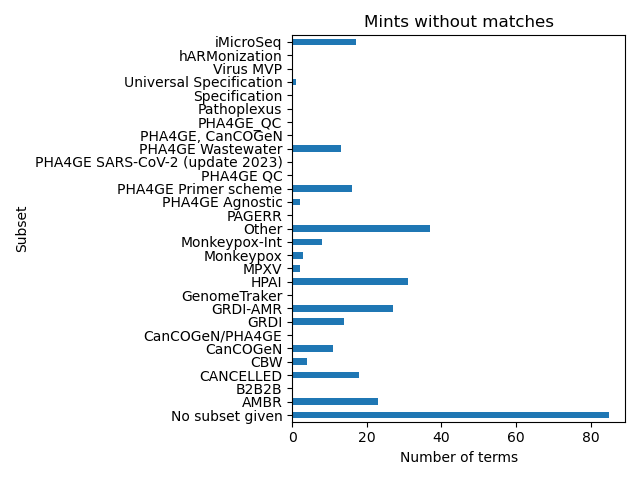
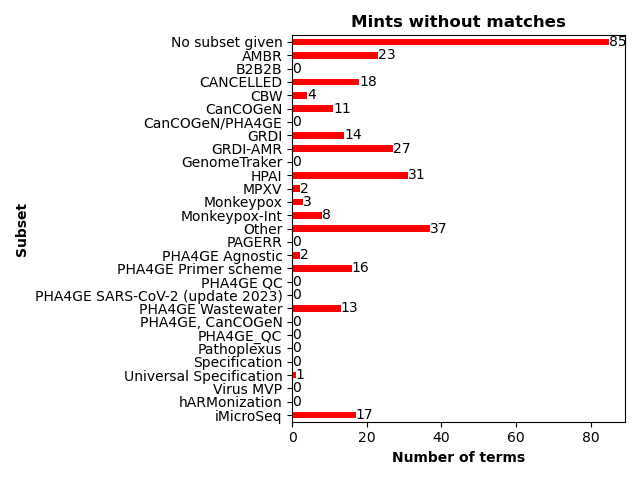
Update subset plot with bar labels etc

Changed region(s): [[0.0625, 0.0312, 0.9688, 0.875], [0.5938, 0.9375, 0.8125, 0.9688], [0.0, 0.4375, 0.0625, 0.5312]]

diff --git a/check_mints.py b/check_mints.py
@@ -154,11 +154,14 @@ if __name__ == "__main__":
 
   # make horizontal bar plot of number of terms not found for each subset
   savefile = "subset_plot.png"
-  ax = match_counts_df['no_match_counts'].plot.barh()
-  plt.title("Mints without matches")
-  plt.ylabel("Subset")
-  plt.xlabel("Number of terms")
+  ax = match_counts_df['no_match_counts'].plot.barh(color='red')
+  plt.title("Mints without matches", fontweight='bold')
+  plt.ylabel("Subset", fontweight='bold')
+  plt.xlabel("Number of terms", fontweight='bold')
   plt.tight_layout()
+  ax.invert_yaxis()
+  for p in ax.patches:
+      ax.annotate(f"{p.get_width()}", (p.get_width() + p.get_height()/200, p.get_center()[1]), va="center", ha="left")
   #plt.bar_label()
   plt.savefig(savefile)
   print("Subset plot saved as: " + savefile)
